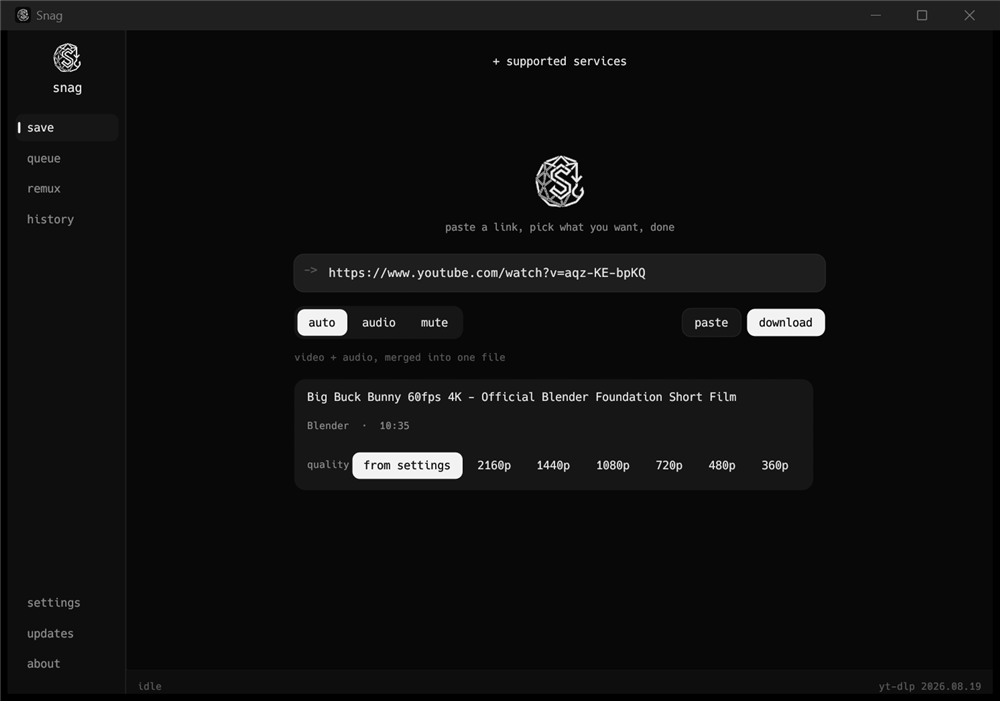
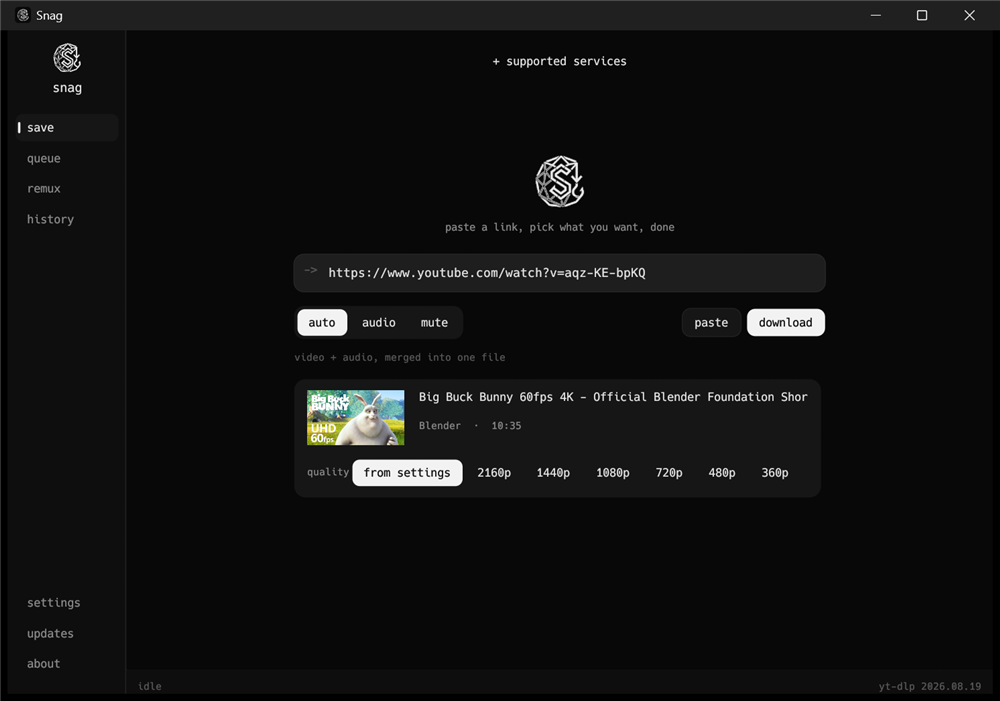
Show the thumbnail in the link preview
The preview already knew the title, channel and duration; the picture is what
makes it recognisable at a glance. Fetched once per link, scaled down before
it becomes a texture rather than holding a 1280px image for a 68px slot, and
dropped as soon as the link in the box changes.

Thumbnails arrive as jpeg or webp, so those two decoders are enabled on the
image crate, which eframe and arboard already pull in.

This also makes Snag fetch something on its own that it did not before, so the
about screen no longer claims the version check is its only network call. It
now says exactly what Snag reaches out for and why.

diff --git a/snag/src/ui/home.rs b/snag/src/ui/home.rs
@@ -210,36 +210,65 @@ fn preview(app: &mut SnagApp, ui: &mut egui::Ui, p: &theme::Palette) {
         return;
     };
 
+    let thumbnail = app.thumbnail.clone();
+
     ui.add_space(12.0);
     theme::card(ui, p, |ui| {
-        let title = if probe.title.is_empty() {
-            "untitled".to_string()
-        } else {
-            probe.title.clone()
-        };
-        let short: String = title.chars().take(64).collect();
-        ui.label(egui::RichText::new(short).size(14.0).color(p.text));
-
-        ui.add_space(4.0);
         ui.horizontal(|ui| {
-            let mut facts: Vec<String> = Vec::new();
-            if let Some(u) = &probe.uploader {
-                facts.push(u.chars().take(28).collect());
+            // The preview image, when the site had one and it arrived.
+            if let Some((_, texture)) = &thumbnail {
+                let height = 68.0;
+                let aspect = {
+                    let [w, h] = texture.size();
+                    if h > 0 {
+                        w as f32 / h as f32
+                    } else {
+                        16.0 / 9.0
+                    }
+                };
+                let size = egui::Vec2::new(height * aspect, height);
+                let (rect, _) = ui.allocate_exact_size(size, egui::Sense::hover());
+                if ui.is_rect_visible(rect) {
+                    ui.painter().image(
+                        texture.id(),
+                        rect,
+                        egui::Rect::from_min_max(egui::pos2(0.0, 0.0), egui::pos2(1.0, 1.0)),
+                        egui::Color32::WHITE,
+                    );
+                }
+                ui.add_space(10.0);
             }
-            if let Some(d) = probe.duration_label() {
-                facts.push(d);
-            }
-            if probe.live {
-                facts.push("live".to_string());
-            }
-            if let Some(n) = probe.playlist_items.filter(|n| *n > 1) {
-                facts.push(format!("playlist, {n} items"));
-            }
-            ui.label(
-                egui::RichText::new(facts.join("  ·  "))
-                    .size(12.0)
-                    .color(p.dim),
-            );
+
+            ui.vertical(|ui| {
+                let title = if probe.title.is_empty() {
+                    "untitled".to_string()
+                } else {
+                    probe.title.clone()
+                };
+                let short: String = title.chars().take(58).collect();
+                ui.label(egui::RichText::new(short).size(14.0).color(p.text));
+                ui.add_space(4.0);
+                ui.horizontal(|ui| {
+                    let mut facts: Vec<String> = Vec::new();
+                    if let Some(u) = &probe.uploader {
+                        facts.push(u.chars().take(28).collect());
+                    }
+                    if let Some(d) = probe.duration_label() {
+                        facts.push(d);
+                    }
+                    if probe.live {
+                        facts.push("live".to_string());
+                    }
+                    if let Some(n) = probe.playlist_items.filter(|n| *n > 1) {
+                        facts.push(format!("playlist, {n} items"));
+                    }
+                    ui.label(
+                        egui::RichText::new(facts.join("  ·  "))
+                            .size(12.0)
+                            .color(p.dim),
+                    );
+                });
+            });
         });
 
         // A playlist link would otherwise quietly download one item, which is

diff --git a/snag/src/app.rs b/snag/src/app.rs
@@ -178,6 +178,11 @@ pub struct SnagApp {
     probe_rx: Receiver<ProbeResult>,
     pub whole_playlist: bool,
     pub height_override: Option<u32>,
+    /// The preview image for the link in the box, keyed by the url it came
+    /// from so a late arrival for an older link is ignored.
+    pub thumbnail: Option<(String, egui::TextureHandle)>,
+    thumb_tx: Sender<(String, egui::ColorImage)>,
+    thumb_rx: Receiver<(String, egui::ColorImage)>,
 
     pub history: History,
 
@@ -238,6 +243,7 @@ impl SnagApp {
         let (app_tx, app_rx) = channel();
         let (probe_tx, probe_rx) = channel();
         let (clip_tx, clip_rx) = channel();
+        let (thumb_tx, thumb_rx) = channel();
         let needs_setup = !settings.setup_done;
 
         let logo = crate::icon::mark_image().map(|image| {
@@ -262,6 +268,9 @@ impl SnagApp {
             probe_rx,
             whole_playlist: false,
             height_override: None,
+            thumbnail: None,
+            thumb_tx,
+            thumb_rx,
             history: History::load(),
             hidden: false,
 
@@ -339,8 +348,33 @@ impl SnagApp {
     fn pump_probe(&mut self, ctx: &egui::Context) {
         while let Ok(result) = self.probe_rx.try_recv() {
             // A reply for a link that is no longer in the box is stale.
-            if result.url == self.probed_url {
-                self.probe = result.state;
+            if result.url != self.probed_url {
+                continue;
+            }
+            if let ProbeState::Done(probe) = &result.state {
+                if let Some(url) = probe.thumbnail.clone() {
+                    let already = self.thumbnail.as_ref().is_some_and(|(u, _)| *u == url);
+                    if !already {
+                        let (tx, repaint) = (self.thumb_tx.clone(), Self::repainter(ctx));
+                        std::thread::spawn(move || {
+                            if let Some(image) = crate::probe::fetch_thumbnail(&url) {
+                                let _ = tx.send((url, image));
+                                repaint();
+                            }
+                        });
+                    }
+                }
+            }
+            self.probe = result.state;
+        }
+
+        while let Ok((url, image)) = self.thumb_rx.try_recv() {
+            // Only keep it if it is still the link being looked at.
+            let wanted = matches!(&self.probe, ProbeState::Done(p) if p.thumbnail.as_deref() == Some(url.as_str()));
+            if wanted {
+                let texture =
+                    ctx.load_texture("snag_thumbnail", image, egui::TextureOptions::LINEAR);
+                self.thumbnail = Some((url, texture));
             }
         }
 
@@ -364,6 +398,7 @@ impl SnagApp {
         self.probed_url = url.clone();
         self.whole_playlist = false;
         self.height_override = None;
+        self.thumbnail = None;
 
         // Only one link at a time is worth previewing; a pasted batch is not.
         let single = url.lines().count() == 1 && crate::util::looks_like_url(&url);

diff --git a/snag/src/probe.rs b/snag/src/probe.rs
@@ -4,6 +4,7 @@
 //! is a playlist, and which qualities exist. That turns the link box from
 //! "paste and hope" into something that can show you what you are about to get.
 
+use std::io::Read;
 use std::sync::mpsc::Sender;
 
 use crate::settings::Settings;
@@ -21,6 +22,8 @@ pub struct Probe {
     /// Distinct video heights the site offers, tallest first.
     pub heights: Vec<u32>,
     pub live: bool,
+    /// Where the preview image lives, if the site offers one.
+    pub thumbnail: Option<String>,
 }
 
 impl Probe {
@@ -102,6 +105,21 @@ fn parse(url: &str, json: &serde_json::Value) -> Probe {
             .get("is_live")
             .and_then(|l| l.as_bool())
             .unwrap_or(false),
+        thumbnail: json
+            .get("thumbnail")
+            .and_then(|t| t.as_str())
+            .filter(|t| t.starts_with("http"))
+            .map(str::to_string)
+            .or_else(|| {
+                // Playlists carry a list rather than a single one; the last is
+                // usually the largest.
+                json.get("thumbnails")?
+                    .as_array()?
+                    .iter()
+                    .filter_map(|t| t.get("url")?.as_str())
+                    .rfind(|u| u.starts_with("http"))
+                    .map(str::to_string)
+            }),
     }
 }
 
@@ -153,6 +171,36 @@ pub fn spawn(
         let _ = tx.send(ProbeResult { url, state });
         repaint();
     });
+}
+
+/// How wide a fetched thumbnail is kept. The card shows it far smaller than
+/// the source image, and there is no sense holding a 1280px texture for it.
+const THUMBNAIL_WIDTH: u32 = 320;
+
+/// Fetch and decode a thumbnail. Returns None for anything that does not
+/// arrive as a usable image, which is not worth troubling the user about.
+pub fn fetch_thumbnail(url: &str) -> Option<egui::ColorImage> {
+    let resp = ureq::get(url)
+        .set("User-Agent", "Snag")
+        .timeout(std::time::Duration::from_secs(15))
+        .call()
+        .ok()?;
+
+    let mut bytes = Vec::new();
+    // Cap it: a preview image has no business being larger than this, and an
+    // unbounded read from a remote server is not something to invite.
+    std::io::Read::take(resp.into_reader(), 8 * 1024 * 1024)
+        .read_to_end(&mut bytes)
+        .ok()?;
+
+    let decoded = image::load_from_memory(&bytes).ok()?;
+    let scaled = decoded.thumbnail(THUMBNAIL_WIDTH, THUMBNAIL_WIDTH);
+    let rgba = scaled.to_rgba8();
+    let size = [rgba.width() as usize, rgba.height() as usize];
+    Some(egui::ColorImage::from_rgba_unmultiplied(
+        size,
+        rgba.as_raw(),
+    ))
 }
 
 #[cfg(test)]

diff --git a/snag/src/ui/about.rs b/snag/src/ui/about.rs
@@ -38,7 +38,7 @@ pub fn view(app: &mut SnagApp, ui: &mut egui::Ui) {
                 for line in [
                     "snag does not download anything itself. it builds a yt-dlp command from your settings, runs it, and reads the progress back.",
                     "merging, remuxing and audio conversion are handled by ffmpeg, which yt-dlp calls on its own.",
-                    "nothing is uploaded anywhere. the only network call snag makes by itself is the yt-dlp version check against github.",
+                    "nothing is uploaded anywhere. snag reaches the network on its own for three things only: checking github for newer versions of itself and of yt-dlp, downloading them if you ask, and fetching the preview image for a link you have pasted.",
                 ] {
                     ui.label(egui::RichText::new(line).size(13.0).color(p.dim));
                     ui.add_space(6.0);

diff --git a/README.md b/README.md
@@ -24,8 +24,8 @@ conversion are handled by **ffmpeg**, which yt-dlp calls on its own.
 
 ![Snag checking a link before downloading it](assets/screenshots/save.png)
 
-*Paste a link and Snag tells you what it is, including the qualities the site
-actually offers.*
+*Paste a link and Snag tells you what it is: thumbnail, title, channel,
+duration, and the qualities the site actually offers.*
 
 </div>
 
@@ -128,9 +128,9 @@ inside Snag.
 
 **save** &mdash; paste a link, pick a mode, download.
 
-Snag checks the link as you paste it and shows what it is: title, channel,
-duration, and the qualities the site actually offers, so you can override the
-quality for one download without touching your settings.
+Snag checks the link as you paste it and shows what it is: thumbnail, title,
+channel, duration, and the qualities the site actually offers, so you can
+override the quality for one download without touching your settings.
 
 | mode | what you get |
 | --- | --- |
